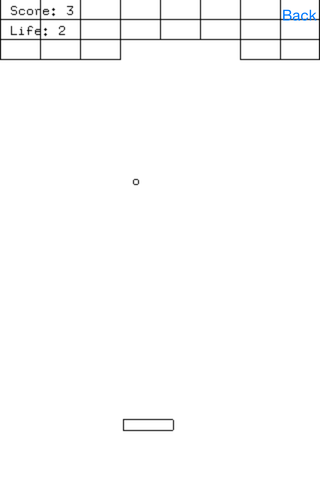
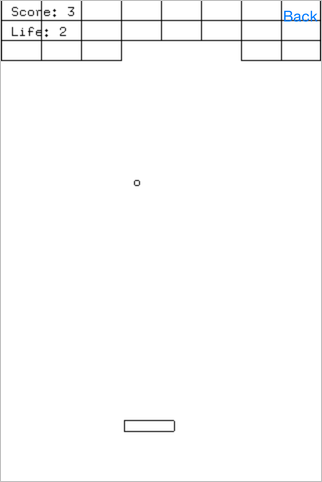
Add border to images

diff --git a/README.md b/README.md
@@ -29,14 +29,15 @@ Balls falls when you touch the screen. [[src]](https://github.com/ongaeshi/ofrub
 ## wave_clock.rb
 Wave Clock. [[src]](https://github.com/ongaeshi/ofruby-sample/blob/master/wave_clock.rb)
 
-<img src="https://raw.github.com/ongaeshi/ofruby-sample/master/images/wave_clock.png" alt="wave_clock.png" style="border: 1px #c0c0c0 solid;"/>
+![wave_clock.png](https://raw.github.com/ongaeshi/ofruby-sample/master/images/wave_clock.png) 
 
 ref: [GENERATIVE ART](http://zenbullets.com/book.php)
 
 ## breakout.rb
 Breakout. [[src]](https://github.com/ongaeshi/ofruby-sample/blob/master/breakout.rb)
 
-<img src="https://raw.github.com/ongaeshi/ofruby-sample/master/images/breakout.png" alt="breakout.png" style="border: 1px #c0c0c0 solid;"/>
+![breakout.png](https://raw.github.com/ongaeshi/ofruby-sample/master/images/breakout.png) 
+
 
 
 
